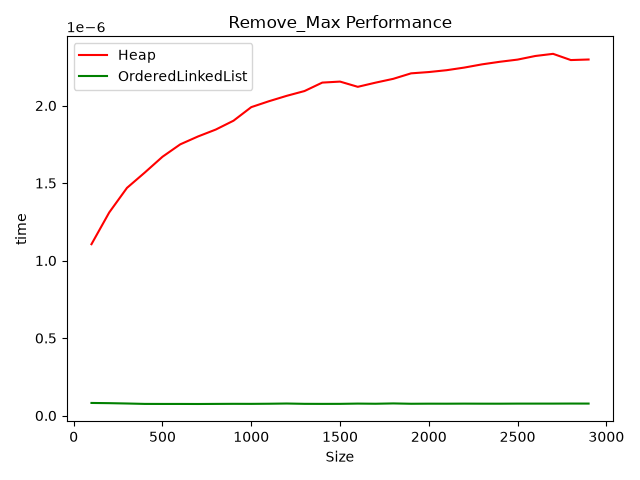
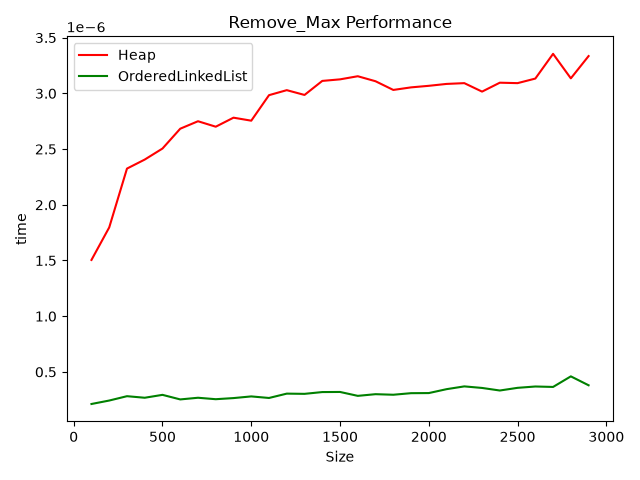
cleaned up some comments

diff --git a/PicchioniEs1LabAlg.py b/PicchioniEs1LabAlg.py
@@ -29,7 +29,6 @@ class Heap:
             swapped = self.heap[i]
             self.heap[i] = self.heap[largest]
             self.heap[largest] = swapped
-            # self.heap[i], self.heap[largest] = self.heap[largest], self.heap[i]
             self.heapify(largest)
 
     def insert(self, x):
@@ -398,31 +397,6 @@ def plot_graph(data_type, number_of_operation, time):
     print("-- finished testing for " + label)
 
 
-# def measure_insert_time(data_type, number_of_operation, elements, time, repeats):
-#     for i in number_of_operation:
-#         best = inf
-#         for _ in range(repeats):
-#             if data_type == 0:
-#                 prio_queue = Heap()
-#             elif data_type == 1:
-#                 prio_queue = OrderedLinkedList()
-#             else:
-#                 prio_queue = LinkedList()
-#             start = timer()
-#             for e in elements[:i]:
-#                 prio_queue.insert(e)
-#             end = timer()
-#             best = min(best, end - start)
-#
-#         # if len(time) == 0:
-#         #     time.append(best)
-#         # else:
-#         #     time.append(best + time[-1])
-#         time.append(best)
-#     plot_graph(data_type, number_of_operation, time)
-#
-
-
 def measure_insert_time(data_type, number_of_operation, elements, time, repeats):
     if data_type == 0:
         prio_queue = Heap()
@@ -442,10 +416,6 @@ def measure_insert_time(data_type, number_of_operation, elements, time, repeats)
                 break
             prio_queue.remove(new_value)
 
-        # if len(time) == 0:
-        #     time.append(best)
-        # else:
-        #     time.append(best + time[-1])
         time.append(best)
     plot_graph(data_type, number_of_operation, time)
 
@@ -520,10 +490,6 @@ def remove_max_test(
             prio_queue.remove_max()
             end = timer()
             best = min(best, end - start)
-        # if len(time) == 0:
-        #     time.append(best)
-        # else:
-        #     time.append(best + time[-1])
         time.append(best)
 
     plot_graph(data_type, number_of_operation, time)
@@ -550,8 +516,6 @@ def increase_key_test(
             for e in inputs[:k]:
                 prio_queue.insert(e)
 
-            # TODO decide which test makes more sense. probably the worst case scenario
-            # random_index = random.choice(range(k))
             random_index = k - 1
             value = prio_queue.get_value(random_index)
             if value is None:
@@ -561,10 +525,6 @@ def increase_key_test(
             prio_queue.increase_key(random_index, random_value)
             end = timer()
             best = min(best, end - start)
-        # if len(time) == 0:
-        #     time.append(best)
-        # else:
-        #     time.append(best + time[-1])
         time.append(best)
 
     plot_graph(data_type, number_of_operation, time)
@@ -577,7 +537,6 @@ interval_end = 3000000
 number_of_repeats = 10
 inputs = random.choices(range(interval_end), k=number_of_elements)
 
-# TODO remove testing lowest, same results as random
 print("# Testing Insertion cases")
 types_to_test = range(3)
 for i in range(3):
@@ -603,80 +562,54 @@ insert_test(
     inputs,
 )
 
-# print("# Testing Remove_Max")
-# for i in range(3):
-#     remove_max_test(
-#         i,
-#         number_of_operation,
-#         number_of_repeats,
-#         inputs,
-#     )
-#
-# # also make a graph for only heap and OrderedLinkedList
-# plt.title("Remove_Max Performance")
-# plt.xlabel("Size")
-# plt.ylabel("time")
-# plt.legend(loc="upper left")
-# plt.tight_layout()
-# plt.savefig("remove_max_performance.png")
-# plt.clf()
-#
-# print("# Testing Remove_Max, only Heap and OrderedLinkedList")
-# for i in range(2):
-#     remove_max_test(
-#         i,
-#         number_of_operation,
-#         number_of_repeats,
-#         inputs,
-#     )
-#
-# # also make a graph for only heap and OrderedLinkedList
-# plt.title("Remove_Max Performance")
-# plt.xlabel("Size")
-# plt.ylabel("time")
-# plt.legend(loc="upper left")
-# plt.tight_layout()
-# plt.savefig("remove_max_performance_no_linked.png")
-# plt.clf()
-#
-# print("# Testing Increase_key")
-# for i in range(3):
-#     increase_key_test(
-#         i,
-#         number_of_operation,
-#         interval_end,
-#         number_of_repeats,
-#         inputs,
-#     )
-#
-# plt.title("Increase_key Performance")
-# plt.xlabel("Size")
-# plt.ylabel("time")
-# plt.legend(loc="upper left")
-# plt.tight_layout()
-# plt.savefig("increase_key_performance.png")
-# plt.clf()
-#
-# # # TODO maybe remove this?
-# # # Section to compare insert() in various cases for max_heap
-# # time = []
-# # inputs = range(number_of_elements)
-# # measure_insert_time(Heap, inputs, time, len(inputs), number_of_repeats)
-# # plt.plot(number_of_operation, time, "g", label="Increasing order")
-# #
-# # time = []
-# # inputs = list(reversed(inputs))
-# # measure_insert_time(Heap, inputs, time, len(inputs), number_of_repeats)
-# # plt.plot(number_of_operation, time, "r", label="Decreasing order")
-# #
-# # time = []
-# # measure_insert_time(Heap, inputs, time, len(inputs), number_of_repeats)
-# # plt.plot(number_of_operation, time, "b", label="Random order")
-# #
-# # plt.title("Insertion Performance Max_heap")
-# # plt.xlabel("Size")
-# # plt.ylabel("time")
-# # plt.legend(loc="upper left")
-# # plt.savefig("max_heap_performance.png")
-# #
-# # TODO make section for just searching for the max
+print("# Testing Remove_Max")
+for i in range(3):
+    remove_max_test(
+        i,
+        number_of_operation,
+        number_of_repeats,
+        inputs,
+    )
+
+plt.title("Remove_Max Performance")
+plt.xlabel("Size")
+plt.ylabel("time")
+plt.legend(loc="upper left")
+plt.tight_layout()
+plt.savefig("remove_max_performance.png")
+plt.clf()
+
+print("# Testing Remove_Max, only Heap and OrderedLinkedList")
+for i in range(2):
+    remove_max_test(
+        i,
+        number_of_operation,
+        number_of_repeats,
+        inputs,
+    )
+
+plt.title("Remove_Max Performance")
+plt.xlabel("Size")
+plt.ylabel("time")
+plt.legend(loc="upper left")
+plt.tight_layout()
+plt.savefig("remove_max_performance_no_linked.png")
+plt.clf()
+
+print("# Testing Increase_key")
+for i in range(3):
+    increase_key_test(
+        i,
+        number_of_operation,
+        interval_end,
+        number_of_repeats,
+        inputs,
+    )
+
+plt.title("Increase_key Performance")
+plt.xlabel("Size")
+plt.ylabel("time")
+plt.legend(loc="upper left")
+plt.tight_layout()
+plt.savefig("increase_key_performance.png")
+plt.clf()
